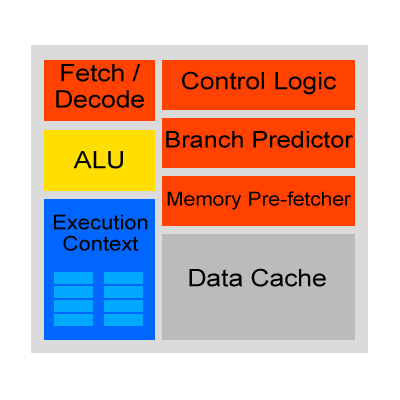
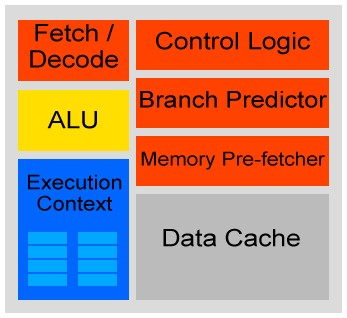
Added beginning of report tex file

diff --git a/doc/gpu_predict_paper.tex b/doc/gpu_predict_paper.tex
@@ -1,0 +1,296 @@
+% Nicholas Arnold
+% Steven Braeger
+% CDA 5106
+%
+% Project Final Report
+%
+% We used the template from IEEE website, linked from
+% http://www.ieee.org/conferences_events/conferences/publishing/templates.html	
+
+\documentclass[conference]{IEEEtran}
+\usepackage{algorithm}
+\usepackage{algorithmic}
+\usepackage{array}
+
+% *** CITATION PACKAGES ***
+%
+%\usepackage{cite}
+% cite.sty was written by Donald Arseneau
+% V1.6 and later of IEEEtran pre-defines the format of the cite.sty package
+% \cite{} output to follow that of IEEE. Loading the cite package will
+% result in citation numbers being automatically sorted and properly
+% "compressed/ranged". e.g., [1], [9], [2], [7], [5], [6] without using
+% cite.sty will become [1], [2], [5]--[7], [9] using cite.sty. cite.sty's
+% \cite will automatically add leading space, if needed. Use cite.sty's
+% noadjust option (cite.sty V3.8 and later) if you want to turn this off.
+% cite.sty is already installed on most LaTeX systems. Be sure and use
+% version 4.0 (2003-05-27) and later if using hyperref.sty. cite.sty does
+% not currently provide for hyperlinked citations.
+% The latest version can be obtained at:
+% http://www.ctan.org/tex-archive/macros/latex/contrib/cite/
+% The documentation is contained in the cite.sty file itself.
+
+% *** MATH PACKAGES ***
+%
+%\usepackage[cmex10]{amsmath}
+% *** SPECIALIZED LIST PACKAGES ***
+%
+%\usepackage{algorithmic}
+% algorithmic.sty was written by Peter Williams and Rogerio Brito.
+% This package provides an algorithmic environment fo describing algorithms.
+% You can use the algorithmic environment in-text or within a figure
+
+
+% *** ALIGNMENT PACKAGES ***
+%
+%\usepackage{array}
+%\usepackage{mdwmath}
+%\usepackage{mdwtab}
+%\usepackage{eqparbox}
+
+% *** SUBFIGURE PACKAGES ***
+%\usepackage[tight,footnotesize]{subfigure}
+
+%\usepackage[caption=false]{caption}
+%\usepackage[font=footnotesize]{subfig}
+%\usepackage{fixltx2e}
+%\usepackage{stfloats}
+% stfloats.sty was written by Sigitas Tolusis. This package gives LaTeX2e
+% the ability to do double column floats at the bottom of the page as well
+% as the top. (e.g., "\begin{figure*}[!b]" is not normally possible in
+% LaTeX2e). It also provides a command:
+%\fnbelowfloat
+% to enable the placement of footnotes below bottom floats (the standard
+% LaTeX2e kernel puts them above bottom floats). This is an invasive package
+
+% Other Packages
+\usepackage{moreverb}
+\usepackage{graphicx}
+\usepackage{caption}
+\usepackage{url}
+
+% correct bad hyphenation here
+\hyphenation{op-tical net-works semi-conduc-tor}
+
+
+\begin{document}
+%
+% paper title
+% can use linebreaks \\ within to get better formatting as desired
+\title{SIMT Something Title}
+
+
+% author names and affiliations
+% use a multiple column layout for up to three different
+% affiliations
+\author{\IEEEauthorblockN{Steven Braeger}
+\IEEEauthorblockA{Department of Electrical Engineering and\\Computer Science\\
+University of Central Florida\\
+Orlando, Florida 32826\\
+Email: \texttt{steve@soapforge.com}}
+\and\IEEEauthorblockN{Nicholas Arnold}
+\IEEEauthorblockA{Department of Electrical Engineering and\\Computer Science\\
+University of Central Florida\\
+Orlando, Florida 32826\\
+Email: \texttt{narnold@knights.ucf.edu}}
+}
+
+\maketitle
+
+
+\begin{abstract} 
+
+\end{abstract}
+
+\IEEEpeerreviewmaketitle
+
+
+\section{Introduction}
+
+
+
+\section{Related Work}
+
+In general, CPU architecture is different than GPU architecture in a few ways.  CPU architecture includes logic for the fetch and decode phases, an ALU for execution, the execution context (registers, etc.), control logic, branch predictor, memory pre-fetcher, and the data cache.  With this setup, a general CPU is designed to perform Single Instruction, Single Data (SISD) operations well, but performs poorly on Single Instruction, Multiple Data (SIMD), Multiple Instruction, Single Data (MISD), and Multiple Instruction, Multiple Data (MIMD).  GPU architecture removes all of the logic designed to make single threaded processes run more efficiently.  There is no control logic, no branch predictor, no memory pre-fetcher, and no data cache [CITE].  With this architecture, a general GPU is designed to perform SIMD operations well, but performs poorly on SISD, MISD, and MIMD. 
+
+\begin{center}
+		\includegraphics[width=.2\textwidth]{CPU-design.jpg} 
+		\captionof{figure}{} 
+\end{center}
+
+\begin{center}
+	\includegraphics[width=.2\textwidth]{GPU-Design.jpg}
+	\captionof{figure}{}
+\end{center}
+
+
+
+
+
+\begin{center}
+		\includegraphics[width=.2\textwidth]{Multicore-CPU-design.jpg} 
+		\captionof{figure}{} 
+\end{center}
+
+\begin{center}
+	\includegraphics[width=.2\textwidth]{GPU-Design---multiple-cores.jpg}
+	\captionof{figure}{}
+\end{center}
+
+\subsection{}
+
+\section{Technical Sections}
+
+\section{Simulation Methodology}
+
+\section{Simulation Results}
+
+
+\section{Conclusions}
+
+\section{References}
+
+\bibliographystyle{IEEEtran}
+\bibliography{IEEEabrv,midterm}
+
+
+% An example of a floating figure using the graphicx package.
+% Note that \label must occur AFTER (or within) \caption.
+% For figures, \caption should occur after the \includegraphics.
+% Note that IEEEtran v1.7 and later has special internal code that
+% is designed to preserve the operation of \label within \caption
+% even when the captionsoff option is in effect. However, because
+% of issues like this, it may be the safest practice to put all your
+% \label just after \caption rather than within \caption{}.
+%
+% Reminder: the "draftcls" or "draftclsnofoot", not "draft", class
+% option should be used if it is desired that the figures are to be
+% displayed while in draft mode.
+%
+%\begin{figure}[!t]
+%\centering
+%\includegraphics[width=2.5in]{myfigure}
+% where an .eps filename suffix will be assumed under latex, 
+% and a .pdf suffix will be assumed for pdflatex; or what has been declared
+% via \DeclareGraphicsExtensions.
+%\caption{Simulation Results}
+%\label{fig_sim}
+%\end{figure}
+
+% Note that IEEE typically puts floats only at the top, even when this
+% results in a large percentage of a column being occupied by floats.
+
+
+% An example of a double column floating figure using two subfigures.
+% (The subfig.sty package must be loaded for this to work.)
+% The subfigure \label commands are set within each subfloat command, the
+% \label for the overall figure must come after \caption.
+% \hfil must be used as a separator to get equal spacing.
+% The subfigure.sty package works much the same way, except \subfigure is
+% used instead of \subfloat.
+%
+%\begin{figure*}[!t]
+%\centerline{\subfloat[Case I]\includegraphics[width=2.5in]{subfigcase1}%
+%\label{fig_first_case}}
+%\hfil
+%\subfloat[Case II]{\includegraphics[width=2.5in]{subfigcase2}%
+%\label{fig_second_case}}}
+%\caption{Simulation results}
+%\label{fig_sim}
+%\end{figure*}
+%
+% Note that often IEEE papers with subfigures do not employ subfigure
+% captions (using the optional argument to \subfloat), but instead will
+% reference/describe all of them (a), (b), etc., within the main caption.
+
+
+% An example of a floating table. Note that, for IEEE style tables, the 
+% \caption command should come BEFORE the table. Table text will default to
+% \footnotesize as IEEE normally uses this smaller font for tables.
+% The \label must come after \caption as always.
+%
+%\begin{table}[!t]
+%% increase table row spacing, adjust to taste
+%\renewcommand{\arraystretch}{1.3}
+% if using array.sty, it might be a good idea to tweak the value of
+% \extrarowheight as needed to properly center the text within the cells
+%\caption{An Example of a Table}
+%\label{table_example}
+%\centering
+%% Some packages, such as MDW tools, offer better commands for making tables
+%% than the plain LaTeX2e tabular which is used here.
+%\begin{tabular}{|c||c|}
+%\hline
+%One & Two\\
+%\hline
+%Three & Four\\
+%\hline
+%\end{tabular}
+%\end{table}
+
+
+% Note that IEEE does not put floats in the very first column - or typically
+% anywhere on the first page for that matter. Also, in-text middle ("here")
+% positioning is not used. Most IEEE journals/conferences use top floats
+% exclusively. Note that, LaTeX2e, unlike IEEE journals/conferences, places
+% footnotes above bottom floats. This can be corrected via the \fnbelowfloat
+% command of the stfloats package.
+
+
+% trigger a \newpage just before the given reference
+% number - used to balance the columns on the last page
+% adjust value as needed - may need to be readjusted if
+% the document is modified later
+%\IEEEtriggeratref{8}
+% The "triggered" command can be changed if desired:
+%\IEEEtriggercmd{\enlargethispage{-5in}}
+
+% references section
+
+% can use a bibliography generated by BibTeX as a .bbl file
+% BibTeX documentation can be easily obtained at:
+% http://www.ctan.org/tex-archive/biblio/bibtex/contrib/doc/
+% The IEEEtran BibTeX style support page is at:
+% http://www.michaelshell.org/tex/ieeetran/bibtex/
+%\bibliographystyle{IEEEtran}
+% argument is your BibTeX string definitions and bibliography database(s)
+%\bibliography{IEEEabrv,midterm.bib}
+%
+% <OR> manually copy in the resultant .bbl file
+% set second argument of \begin to the number of references
+% (used to reserve space for the reference number labels box)
+
+%\begin{thebibliography}{1}
+
+%\bibitem{IEEEhowto:kopka}
+%H.~Kopka and P.~W. Daly, \emph{A Guide to \LaTeX}, 3rd~ed.\hskip 1em plus
+%  0.5em minus 0.4em\relax Harlow, England: Addison-Wesley, 1999.
+
+%\end{thebibliography}
+
+%\bibliographystyle{ieeetr}
+%\bibliography{midterm}
+
+%\appendix
+%\section{Project Progress}
+%\subsection{Challenges Encountered}
+%\subsection{Completed Tasks}
+%\subsection{Remaining Tasks}
+
+
+% that's all folks
+%\bibliographystyle{ieeetr}
+%\bibliography{midterm}
+
+
+
+
+%\appendix
+%\section{Project Progress}
+%\subsection{Challenges Encountered}
+%\subsection{Completed Tasks}
+%\subsection{Remaining Tasks}
+
+\end{document}
+
+
